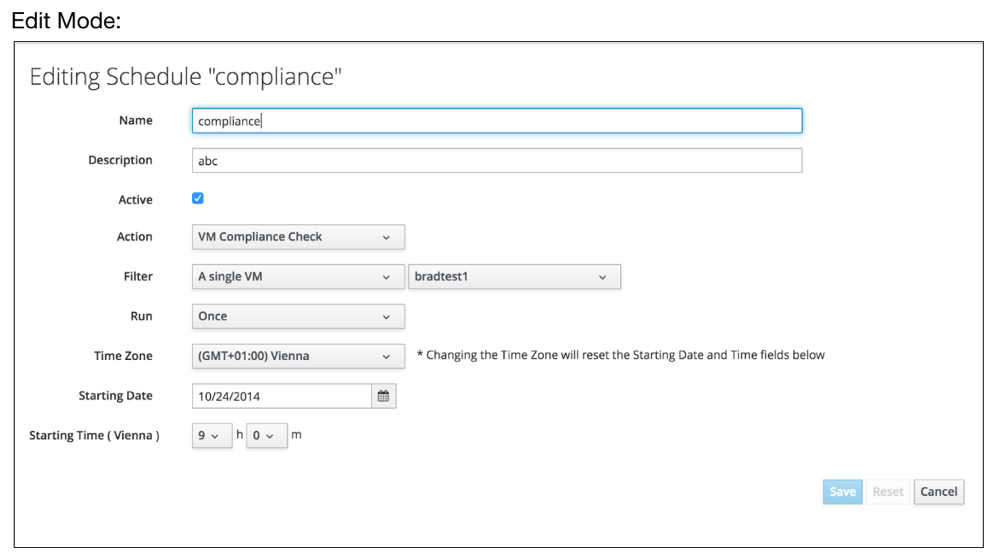
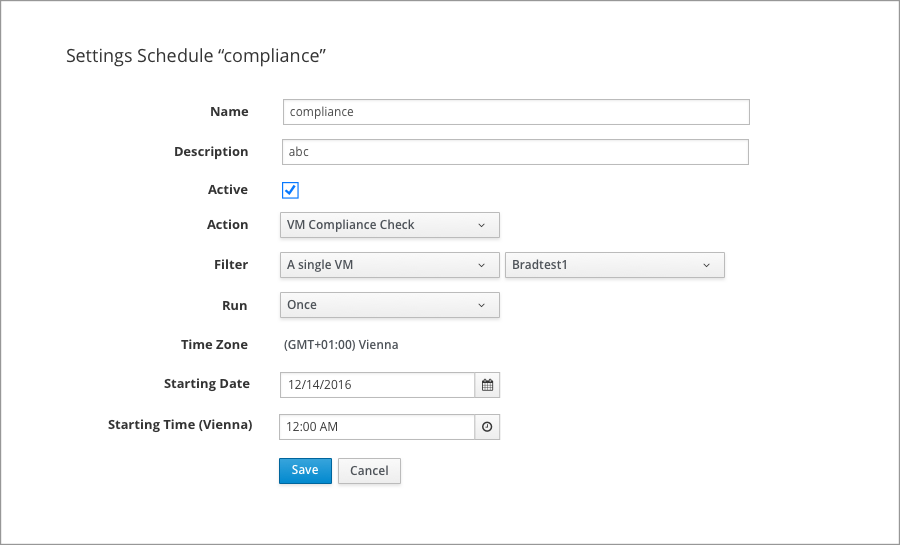
Overview update

diff --git a/pattern-library/forms-and-controls/view-edit-mode/overview.md b/pattern-library/forms-and-controls/view-edit-mode/overview.md
@@ -5,6 +5,7 @@ View mode / Edit mode is a high frequency of usage scenarios in form design. The
 The two modes are cooperate with each other.
 
 ## Examples
+##View mode
 ![Image of filter](img/view_mode.png)
-
+##Editmode
 ![Image of filter](img/edit_mode.png)
